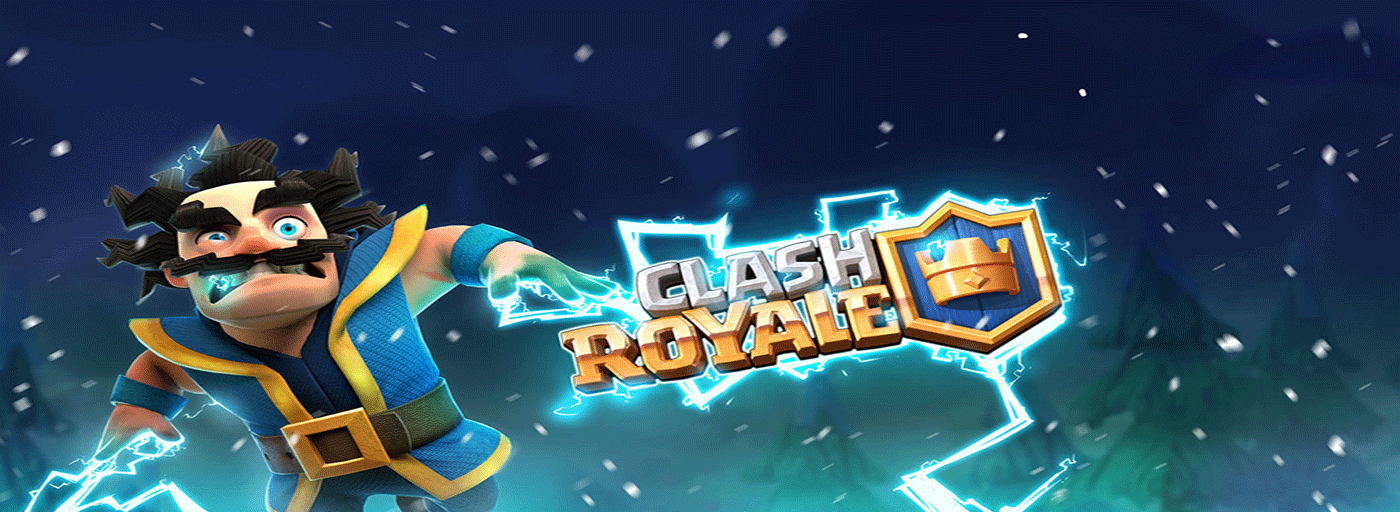
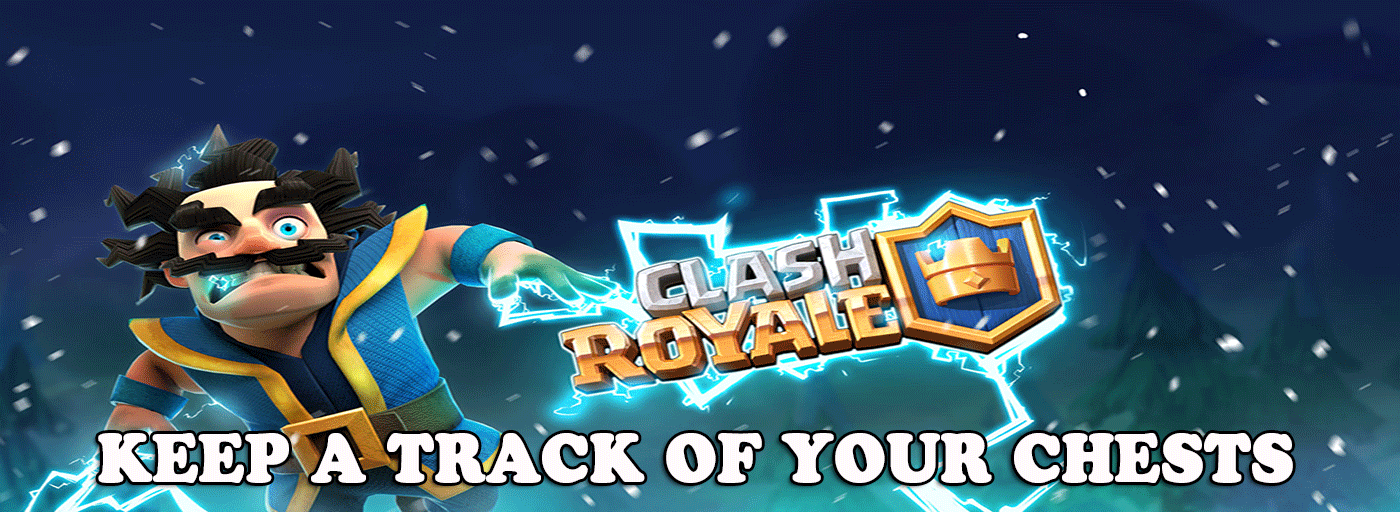
carousel images

diff --git a/src/components/App.js b/src/components/App.js
@@ -1,5 +1,5 @@
 import React,{Component} from 'react';
-import {Carousel , CarouselItem} from 'react-bootstrap';
+import {Carousel , CarouselItem , ResponsiveEmbed} from 'react-bootstrap';
 
 class App extends Component{
 
@@ -12,7 +12,6 @@ class App extends Component{
                 <CarouselItem>
                   <img src={image_carousel_item1} />  
                   <Carousel.Caption>
-				    <h3>Keep A Track Of Your Chest Cycle</h3>
 			    </Carousel.Caption>
                 </CarouselItem>
                 <CarouselItem>

diff --git a/public/main.css b/public/main.css
@@ -34,7 +34,7 @@
 }
 
 .nav-a{
-    color: #9d9d9d;
+    color: #FFFFFF;
     
 }
 
